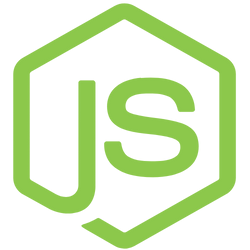
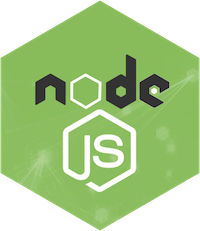
Updated Projects

diff --git a/src/components/HomeTest.jsx b/src/components/HomeTest.jsx
@@ -1,6 +1,11 @@
 import React from 'react'
 import html from "../assets/html.png";
+import node from "../assets/node.png";
+import mongo from "../assets/mongo.png";
+import express from "../assets/express.png";
 import css from "../assets/css.png";
+import java from "../assets/java.png";
+import chatgpt from "../assets/chatgpt.png";
 import javascript from "../assets/javascript.png";
 import cpp from "../assets/cpp.png";
 import reactImage from "../assets/react.png";
@@ -79,6 +84,21 @@ const HomeTest = () => {
              <div class=" flex flex-row items-start dark:border-gray-800 rounded p-4 relative">
                <div class="my-4"></div>
                <div>
+                 <h4 class="text-xl font-bold tracking-tight text-gray-900 ">AnnonyBlog</h4>
+                 <p class="leading-6 pt-4 text-gray-700 mb-3">AnnonyBlog is a Full Stack Blog Application created with React, Node, Express, MongoDB, JWT, Bcrypt. Users can register, login, create blogs, like and comment on it.</p>
+                 <a href="https://github.com/sonai99/AnnonyBlog-MERN" target="_blank" class="items-center text-sm my-4 mx-auto font-semibold mr-4 rounded-md  hover:bg-gray-100 text-gray-900 border px-4 py-2" rel="noreferrer">Demo 🔗</a>
+                 <a href="https://github.com/sonai99/AnnonyBlog-MERN" target="_blank" class="items-center text-sm my-4 mx-auto font-semibold rounded-md  hover:bg-gray-100 text-gray-900 border px-4 py-2 " rel="noreferrer">Code</a>
+               </div>
+             </div>
+           </div>
+         </div>   
+          <div class="group mb-4 hover:shadow-lg rounded-xl transition duration-200 relative border border-slate-200  w-full">
+           <span class="absolute w-[40%] -bottom-px right-px h-px bg-gradient-to-r from-blue-700/0 via-blue-700/40 to-blue-700/0 dark:from-blue-400/0 dark:via-blue-400/40 dark:to-blue-400/0"></span>
+           <span class="absolute w-px -left-px h-[40%] bg-gradient-to-b from-blue-700/0 via-blue-700/40 to-blue-700/0 dark:from-blue-400/0 dark:via-blue-400/40 dark:to-blue-400/0"></span>
+           <div class="relative h-full">
+             <div class=" flex flex-row items-start dark:border-gray-800 rounded p-4 relative">
+               <div class="my-4"></div>
+               <div>
                  <h4 class="text-xl font-bold tracking-tight text-gray-900 ">CryptoN</h4>
                  <p class="leading-6 pt-4 text-gray-700 mb-3">CryptoN is a all in one crptocurrency marketplace to stay up to date with all your favourite cryptocurrencies to help you #trade_better. View current prices and details of your favourite Coins.</p>
                  <a href="https://anirban-crypton.netlify.app/" target="_blank" class="items-center text-sm my-4 mx-auto font-semibold mr-4 rounded-md  hover:bg-gray-100 text-gray-900 border px-4 py-2" rel="noreferrer">Demo 🔗</a>
@@ -118,21 +138,7 @@ const HomeTest = () => {
              </div>
            </div>
          </div>   
-         <div class="group mb-4 hover:shadow-lg rounded-xl transition duration-200 relative border border-slate-200  w-full">
-           <span class="absolute w-[40%] -bottom-px right-px h-px bg-gradient-to-r from-blue-700/0 via-blue-700/40 to-blue-700/0 dark:from-blue-400/0 dark:via-blue-400/40 dark:to-blue-400/0"></span>
-           <span class="absolute w-px -left-px h-[40%] bg-gradient-to-b from-blue-700/0 via-blue-700/40 to-blue-700/0 dark:from-blue-400/0 dark:via-blue-400/40 dark:to-blue-400/0"></span>
-           <div class="relative h-full">
-             <div class=" flex flex-row items-start dark:border-gray-800 rounded p-4 relative">
-               <div class="my-4"></div>
-               <div>
-                 <h4 class="text-xl font-bold tracking-tight text-gray-900 ">Portfolio</h4>
-                 <p class="leading-6 pt-4 text-gray-700 mb-3">A minimal personal portfolio for myself. A good online presence to provide proof of work to the potential recruiters who might want to hire me. Thanks for visiting.</p>
-                 <a href="https://anirban-dutta-portfolio.netlify.app/" target="_blank" class="items-center text-sm my-4 mx-auto font-semibold mr-4 rounded-md  hover:bg-gray-100 text-gray-900 border px-4 py-2" rel="noreferrer">Demo 🔗</a>
-                 <a href="https://github.com/sonai99/anirban-portfolio" target="_blank" class="items-center text-sm my-4 mx-auto font-semibold rounded-md  hover:bg-gray-100 text-gray-900 border px-4 py-2 " rel="noreferrer">Code</a>
-               </div>
-             </div>
-           </div>
-         </div>   
+         
           </div>
           <Link to="/portfolio" type='button' class="border px-4 py-2 flex items-center text-sm my-4 mx-auto hover:bg-gray-100 rounded-md font-medium text-gray-900">See More 
             <svg class="h-4 w-4 ml-1" xmlns="http://www.w3.org/2000/svg" fill="none" viewBox="0 0 24 24" stroke="currentColor"><path stroke-linecap="round" stroke-linejoin="round" stroke-width="2" d="M19 9l-7 7-7-7"></path></svg>
@@ -149,6 +155,15 @@ const HomeTest = () => {
               <div class="relative h-full">
                 <div class=" flex flex-col items-start dark:border-gray-800 rounded p-4 relative">
                   <div>
+                  <img src={node} alt="" />
+                  </div>
+                </div>
+              </div>
+            </div>
+            <div href="" class="group mb-4 hover:shadow-lg rounded-xl transition duration-200 relative border border-slate-200  w-full">
+              <div class="relative h-full">
+                <div class=" flex flex-col items-start dark:border-gray-800 rounded p-4 relative">
+                  <div>
                   <img src={reactImage} alt="" />
                   </div>
                 </div>
@@ -158,7 +173,52 @@ const HomeTest = () => {
               <div class="relative h-full">
                 <div class=" flex flex-col items-start dark:border-gray-800 rounded p-4 relative">
                   <div>
+                  <img src={mongo} alt="" />
+                  </div>
+                </div>
+              </div>
+            </div>
+            <div href="" class="group mb-4 hover:shadow-lg rounded-xl transition duration-200 relative border border-slate-200  w-full">
+              <div class="relative h-full">
+                <div class=" flex flex-col items-start dark:border-gray-800 rounded p-4 relative">
+                  <div>
+                  <img src={express} alt="" />
+                  </div>
+                </div>
+              </div>
+            </div>
+            <div href="" class="group mb-4 hover:shadow-lg rounded-xl transition duration-200 relative border border-slate-200  w-full">
+              <div class="relative h-full">
+                <div class=" flex flex-col items-start dark:border-gray-800 rounded p-4 relative">
+                  <div>
                   <img src={javascript} alt="" />
+                  </div>
+                </div>
+              </div>
+            </div>
+            <div href="" class="group mb-4 hover:shadow-lg rounded-xl transition duration-200 relative border border-slate-200  w-full">
+              <div class="relative h-full">
+                <div class=" flex flex-col items-start dark:border-gray-800 rounded p-4 relative">
+                  <div>
+                  <img src={java} alt="" />
+                  </div>
+                </div>
+              </div>
+            </div>
+            <div href="" class="group mb-4 hover:shadow-lg rounded-xl transition duration-200 relative border border-slate-200  w-full">
+              <div class="relative h-full">
+                <div class=" flex flex-col items-start dark:border-gray-800 rounded p-4 relative">
+                  <div>
+                  <img src={html} alt="" />
+                  </div>
+                </div>
+              </div>
+            </div>
+            <div href="" class="group mb-4 hover:shadow-lg rounded-xl transition duration-200 relative border border-slate-200  w-full">
+              <div class="relative h-full">
+                <div class=" flex flex-col items-start dark:border-gray-800 rounded p-4 relative">
+                  <div>
+                  <img src={css} alt="" />
                   </div>
                 </div>
               </div>
@@ -185,7 +245,7 @@ const HomeTest = () => {
               <div class="relative h-full">
                 <div class=" flex flex-col items-start dark:border-gray-800 rounded p-4 relative">
                   <div>
-                  <img src={html} alt="" />
+                  <img src={python} alt="" />
                   </div>
                 </div>
               </div>
@@ -203,15 +263,6 @@ const HomeTest = () => {
               <div class="relative h-full">
                 <div class=" flex flex-col items-start dark:border-gray-800 rounded p-4 relative">
                   <div>
-                  <img src={css} alt="" />
-                  </div>
-                </div>
-              </div>
-            </div>
-            <div href="" class="group mb-4 hover:shadow-lg rounded-xl transition duration-200 relative border border-slate-200  w-full">
-              <div class="relative h-full">
-                <div class=" flex flex-col items-start dark:border-gray-800 rounded p-4 relative">
-                  <div>
                   <img src={linux} alt="" />
                   </div>
                 </div>
@@ -221,7 +272,7 @@ const HomeTest = () => {
               <div class="relative h-full">
                 <div class=" flex flex-col items-start dark:border-gray-800 rounded p-4 relative">
                   <div>
-                  <img src={python} alt="" />
+                  <img src={chatgpt} alt="" />
                   </div>
                 </div>
               </div>

diff --git a/src/components/Portfolio.jsx b/src/components/Portfolio.jsx
@@ -9,10 +9,18 @@ import devilbutton from "../assets/portfolio/devilbutton.png"
 import crypton from "../assets/portfolio/crypton.png"
 import jobify from "../assets/portfolio/jobify.png"
 import staffmate from "../assets/portfolio/staffmate.png"
+import annonyblog from "../assets/portfolio/AnnonyBlog.png"
 
 
 const Portfolio = () => {
     const portfolios = [
+      {
+        id: 1,
+        name: "AnnonyBlog",
+        src: annonyblog,
+        demo: "https://github.com/sonai99/AnnonyBlog-MERN",
+        code: "https://github.com/sonai99/AnnonyBlog-MERN",
+      },
       {
         id: 1,
         name: "Crypton",
@@ -139,7 +147,7 @@ const Portfolio = () => {
          <div class="bg-white ">
          <main class="flex flex-col justify-center bg-white px-8 text-gray-900 antialiased">
          <div class="flex flex-col justify-center items-start max-w-2xl mx-auto mb-16">
-         <h1 class="font-bold text-5xl mb-4 md:text-4xl tracking-tight mt-8 text-black ">Projects</h1>
+         <h1 class="font-bold text-5xl mb-4 md:text-4xl tracking-tight mt-8 text-black ">Projects</h1>         
           <div class="flex flex-col md:flex-row justify-between items-start md:space-x-14 w-full mb-10">
           <div class="grid grid-cols-1 md:grid-cols-2 gap-4">
             {portfolios.map((portfolio) => (

diff --git a/src/components/Experience.jsx b/src/components/Experience.jsx
@@ -8,13 +8,14 @@ import github from "../assets/github.png";
 import tailwind from "../assets/tailwind.png";
 import linux from "../assets/linux.png";
 import python from "../assets/python.png";
+import node from "../assets/node.png";
 
 const Experience = () => {
 
     const array = [
         {
           id: 1,
-          src: html,
+          src: node,
           title: "HTML",
           shadow: "shadow-orange-500",
         },
